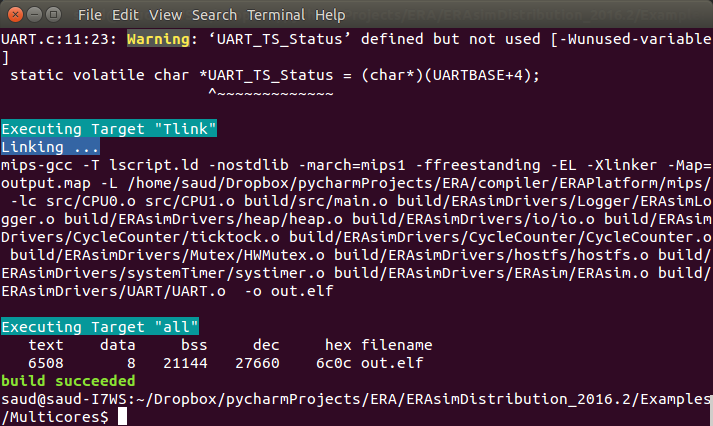
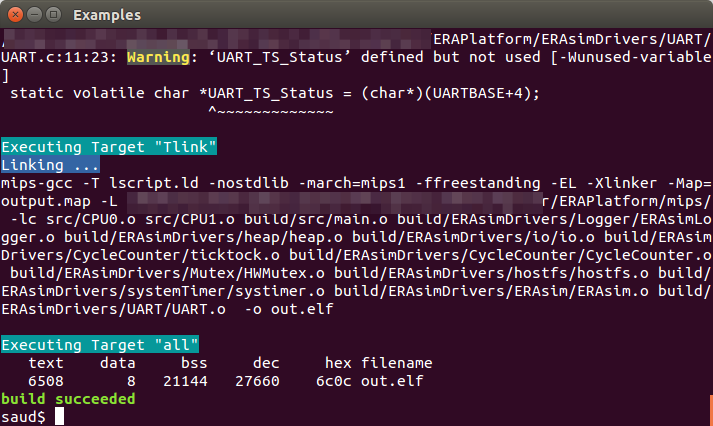
update README.md and screenshots

Changed region(s): [[0.0, 0.0, 1.0, 1.0], [0.9874, 0.0, 1.0, 0.0305]]

diff --git a/README.md b/README.md
@@ -154,7 +154,14 @@ First of all, `makefile.py` must import pymake2. To enable detailed error messag
 - pymake2 automatically recognizes space-separated lists (used in makefiles for source or object files) and converts them to Python lists. Therefore, the commands provided by pymake2 such as `compile` and `link` accepts both formats (Python list, and space-separated list).
 
 ###Screenshots###
-![alt text](https://github.com/adam-p/markdown-here/raw/master/src/common/images/icon48.png "Logo Title Text 1")
+Succesfull build with highlighted compile warnings
+![alt text](https://bytebucket.org/saudalwasly/pymake2/raw/a7509f63bdcfd4343fb119227929cf8898d2181d/screenshots/screenshot_1.png "screenshot example of a successful build")
+
+Rebuilding the same target yields already satisfied dependencies and not need to recompile and link
+![alt text](https://bytebucket.org/saudalwasly/pymake2/raw/a7509f63bdcfd4343fb119227929cf8898d2181d/screenshots/screenshot_2.png "screenshot example of a successful build")
+
+Building for the target `Tlib` failed after cleaning as it depends on all object files `OBJ_All`.
+![alt text](https://bytebucket.org/saudalwasly/pymake2/raw/a7509f63bdcfd4343fb119227929cf8898d2181d/screenshots/screenshot_3.png "screenshot example of a successful build")
 
 
 ### License ###
